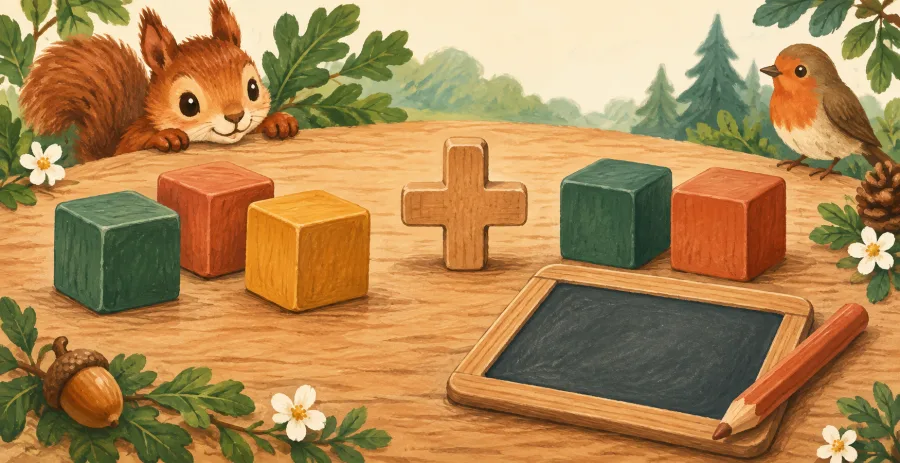
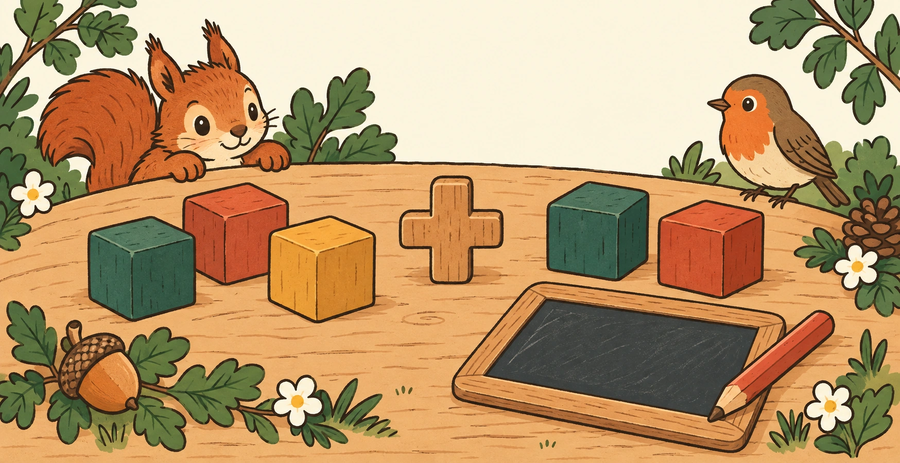
feat: add new images for calculs&fluence (#23)
* Add new images for calculs&fluence

* perf(cabane): resize Fluence and Calculs previews to 900x463

The new illustrations landed at 1748x900, roughly five times the pixels the
185px tile can display, which pushed the landing page image weight from 186 KB
to 717 KB. Both files are downscaled to 900x463 with Lanczos and re-encoded as
WebP quality 90, giving 76 KB and 98 KB.

The width and height attributes in index.html now match the real file size.

* perf(cabane): encode Fluence and Calculs previews lossless

diff --git a/docs/cabane/index.html b/docs/cabane/index.html
@@ -24,7 +24,7 @@
     </header>
     <div class="games" id="games">
       <a class="game-tile reading-tile" href="./lecture/">
-        <div class="preview illustrated-preview" aria-hidden="true"><img src="./images/fluence-preview.webp" alt="" width="900" height="462" decoding="async"></div>
+        <div class="preview illustrated-preview" aria-hidden="true"><img src="./images/fluence-preview.webp" alt="" width="900" height="463" decoding="async"></div>
         <div class="tile-content"><span class="tag">Mon rendez-vous lecture</span><h2>La Fluence</h2><p>Un texte à découvrir, un temps à garder.</p><span class="play-label">Lire</span></div>
       </a>
       <a class="game-tile" href="./memory/">
@@ -36,7 +36,7 @@
         <div class="tile-content"><span class="tag">Relie & explore</span><h2>Le Chemin</h2><p>De nombre en nombre, passe par toutes les cases.</p><span class="play-label">Jouer</span></div>
       </a>
       <a class="game-tile counting-tile" href="./calculs/">
-        <div class="preview illustrated-preview" aria-hidden="true"><img src="./images/calculs-preview.webp" alt="" width="900" height="462" decoding="async"></div>
+        <div class="preview illustrated-preview" aria-hidden="true"><img src="./images/calculs-preview.webp" alt="" width="900" height="463" decoding="async"></div>
         <div class="tile-content"><span class="tag">Compte & trace</span><h2>Les Petits Calculs</h2><p>Additions, soustractions et réponses au bout du doigt.</p><span class="play-label">Jouer</span></div>
       </a>
       <a class="game-tile light-tile" href="./lumiere/">
